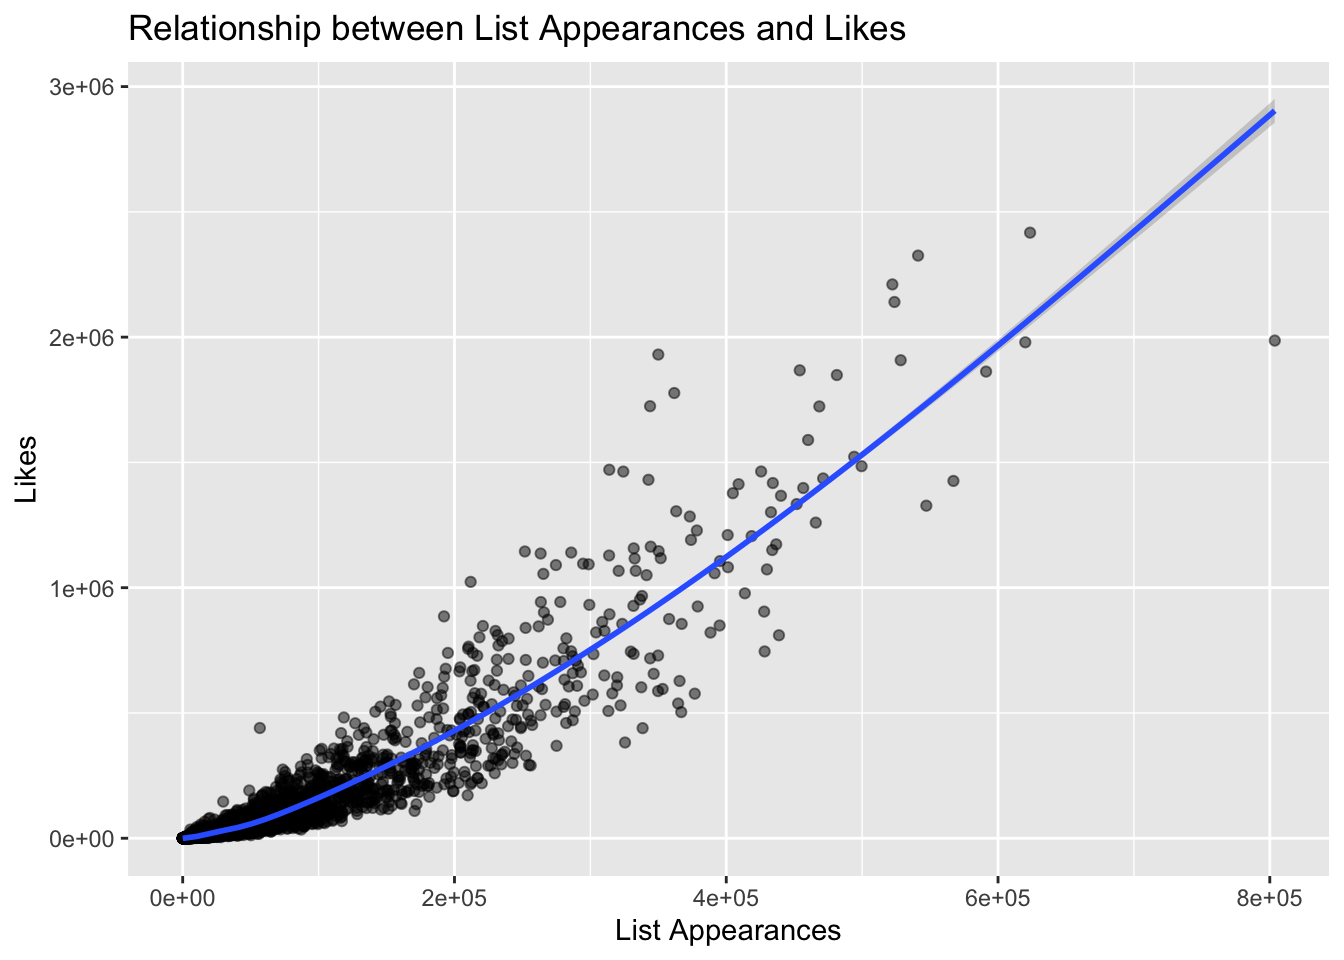
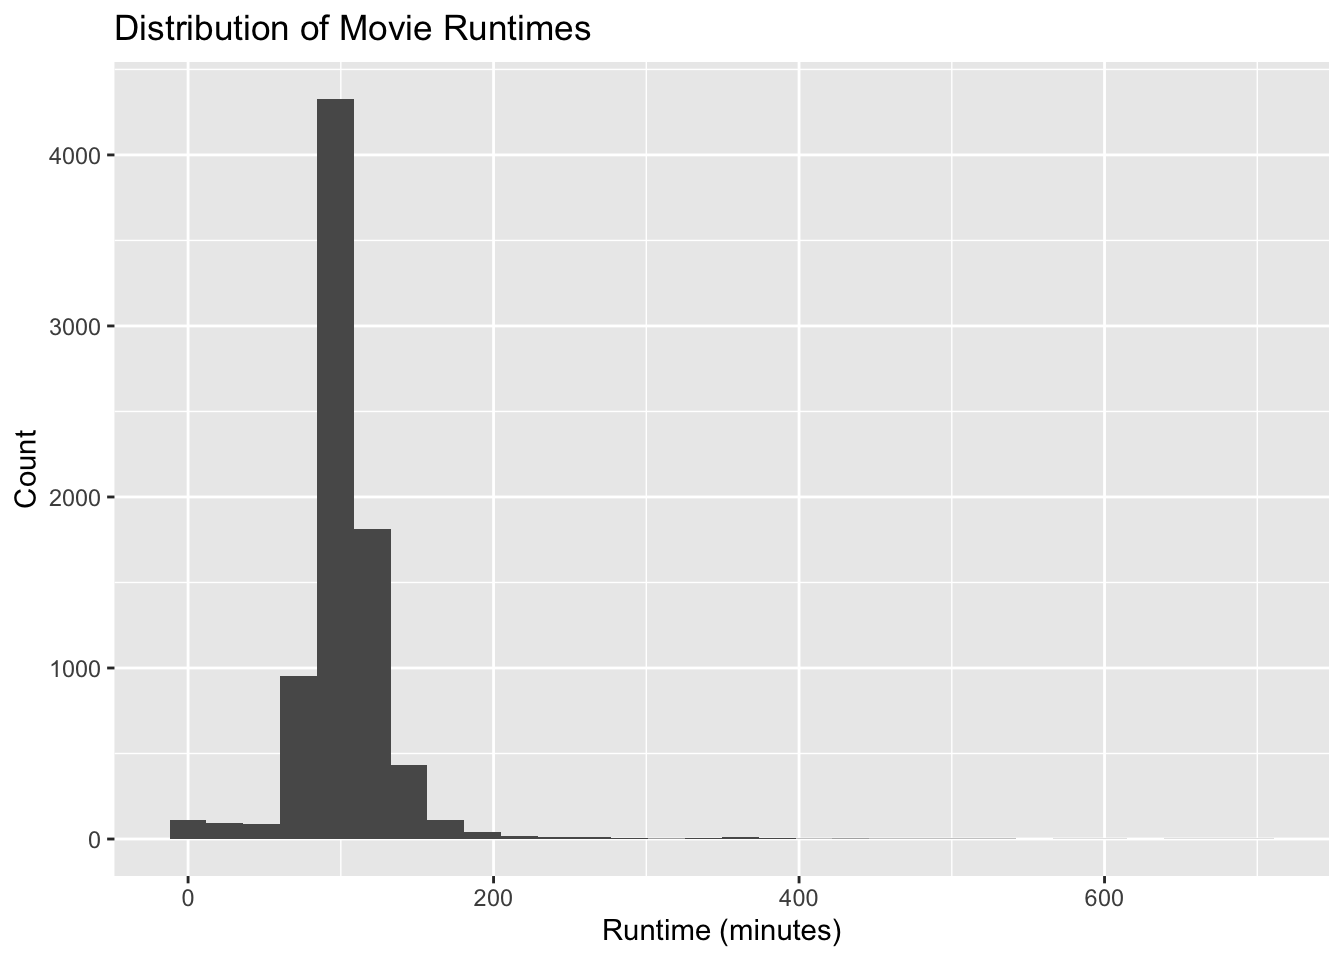
more edits to genre df and organization

diff --git a/Data-Cleaning.html b/Data-Cleaning.html
@@ -289,12 +289,12 @@ $(document).ready(function () {
 ## ✖ dplyr::filter() masks stats::filter()
 ## ✖ dplyr::lag()    masks stats::lag()
 ## ℹ Use the conflicted package (&lt;http://conflicted.r-lib.org/&gt;) to force all conflicts to become errors</code></pre>
-<p>Improting the Data, filter only English-language films</p>
+<p>Importing the Data, filter only English-language films</p>
 <pre class="r"><code>movie_df = read.csv(&quot;data/letterbox_movie_classification_dataset.csv&quot;) |&gt;
   janitor::clean_names() |&gt;
   filter(original_language == &quot;English&quot;) |&gt;
   select(film_title, director, average_rating, genres, runtime, original_language, description, studios, watches, list_appearances, likes, fans, lowest, medium, highest, total_ratings)</code></pre>
-<p>EDA - genre df cleaning and genre count</p>
+<p>EDA - genre count</p>
 <pre class="r"><code>genre_df = movie_df |&gt;
   mutate(genres = str_remove_all(genres, &quot;\\[|\\]|&#39;&quot;)) |&gt;
   separate_rows(genres, sep = &quot;,\\s*&quot;)
@@ -320,19 +320,20 @@ print (genre_count)</code></pre>
 ##  9 Science Fiction       1070
 ## 10 Fantasy                769
 ## # ℹ 20 more rows</code></pre>
+<p>EDA - genre df pivot wider</p>
 <pre class="r"><code>genre_wide = genre_df |&gt; 
-  mutate(studios = map_chr(studios, ~ paste(.x, collapse = &quot;, &quot;)),
+  mutate(
+    studios = as.character(studios),
     description = as.character(description),
-    genres = map_chr(genres, ~ paste(.x, collapse = &quot;,&quot;))
+    genres = as.character(genres)
   ) |&gt; 
-  mutate(genres = map_chr(genres, ~ paste(.x, collapse = &quot;,&quot;))) |&gt;
   mutate(value = 1) |&gt; 
   group_by(
     film_title, director, average_rating, runtime, original_language,
     description, studios, watches, list_appearances, likes, fans,
     lowest, medium, highest, total_ratings, genres
   ) |&gt; 
-   summarise(value = max(value), .groups = &quot;drop&quot;) |&gt; 
+  summarise(value = max(value), .groups = &quot;drop&quot;) |&gt; 
   pivot_wider(
     id_cols = c(
       film_title, director, average_rating, runtime, original_language,
@@ -342,7 +343,8 @@ print (genre_count)</code></pre>
     names_from = genres,
     values_from = value,
     values_fill = 0
-  )</code></pre>
+  ) |&gt; 
+  janitor::clean_names()</code></pre>
 <p>EDA - top 5 films based on watches (mainstream popularity)</p>
 <pre class="r"><code>top_films = 
   movie_df |&gt;
@@ -384,7 +386,7 @@ it)</p>
   labs (title = &quot;Distribution of Movie Runtimes&quot;,
         x = &quot;Runtime (minutes)&quot;, y = &quot;Count&quot;)</code></pre>
 <pre><code>## `stat_bin()` using `bins = 30`. Pick better value with `binwidth`.</code></pre>
-<p><img src="Data-Cleaning_files/figure-html/unnamed-chunk-6-1.png" width="672" /></p>
+<p><img src="Data-Cleaning_files/figure-html/unnamed-chunk-7-1.png" width="672" /></p>
 <p>Is this an EDA? - relationship between list appearances and likes
 (please edit the aesthetics of it)</p>
 <pre class="r"><code>ggplot(movie_df, aes(x=list_appearances, y = likes)) +
@@ -393,7 +395,7 @@ it)</p>
   labs (title = &quot;Relationship between List Appearances and Likes&quot;,
         x = &quot;List Appearances&quot;, y = &quot;Likes&quot;)</code></pre>
 <pre><code>## `geom_smooth()` using method = &#39;gam&#39; and formula = &#39;y ~ s(x, bs = &quot;cs&quot;)&#39;</code></pre>
-<p><img src="Data-Cleaning_files/figure-html/unnamed-chunk-7-1.png" width="672" /></p>
+<p><img src="Data-Cleaning_files/figure-html/unnamed-chunk-8-1.png" width="672" /></p>
 <p>Is this an EDA? - relationship between runtime and average rating
 (please edit the aesthetics of it)</p>
 <pre class="r"><code>ggplot(movie_df, aes(x=runtime, y=average_rating)) +
@@ -402,7 +404,7 @@ it)</p>
   labs (title = &quot;Relationship between Runtime and Average Rating&quot;,
         x = &quot;Runtime (minutes)&quot;, y = &quot;Average Rating&quot;)</code></pre>
 <pre><code>## `geom_smooth()` using method = &#39;gam&#39; and formula = &#39;y ~ s(x, bs = &quot;cs&quot;)&#39;</code></pre>
-<p><img src="Data-Cleaning_files/figure-html/unnamed-chunk-8-1.png" width="672" /></p>
+<p><img src="Data-Cleaning_files/figure-html/unnamed-chunk-9-1.png" width="672" /></p>
 <p>Cont. EDA of relationship between runtime and average rating</p>
 <pre class="r"><code>runtime_rate_df =
   movie_df |&gt;
